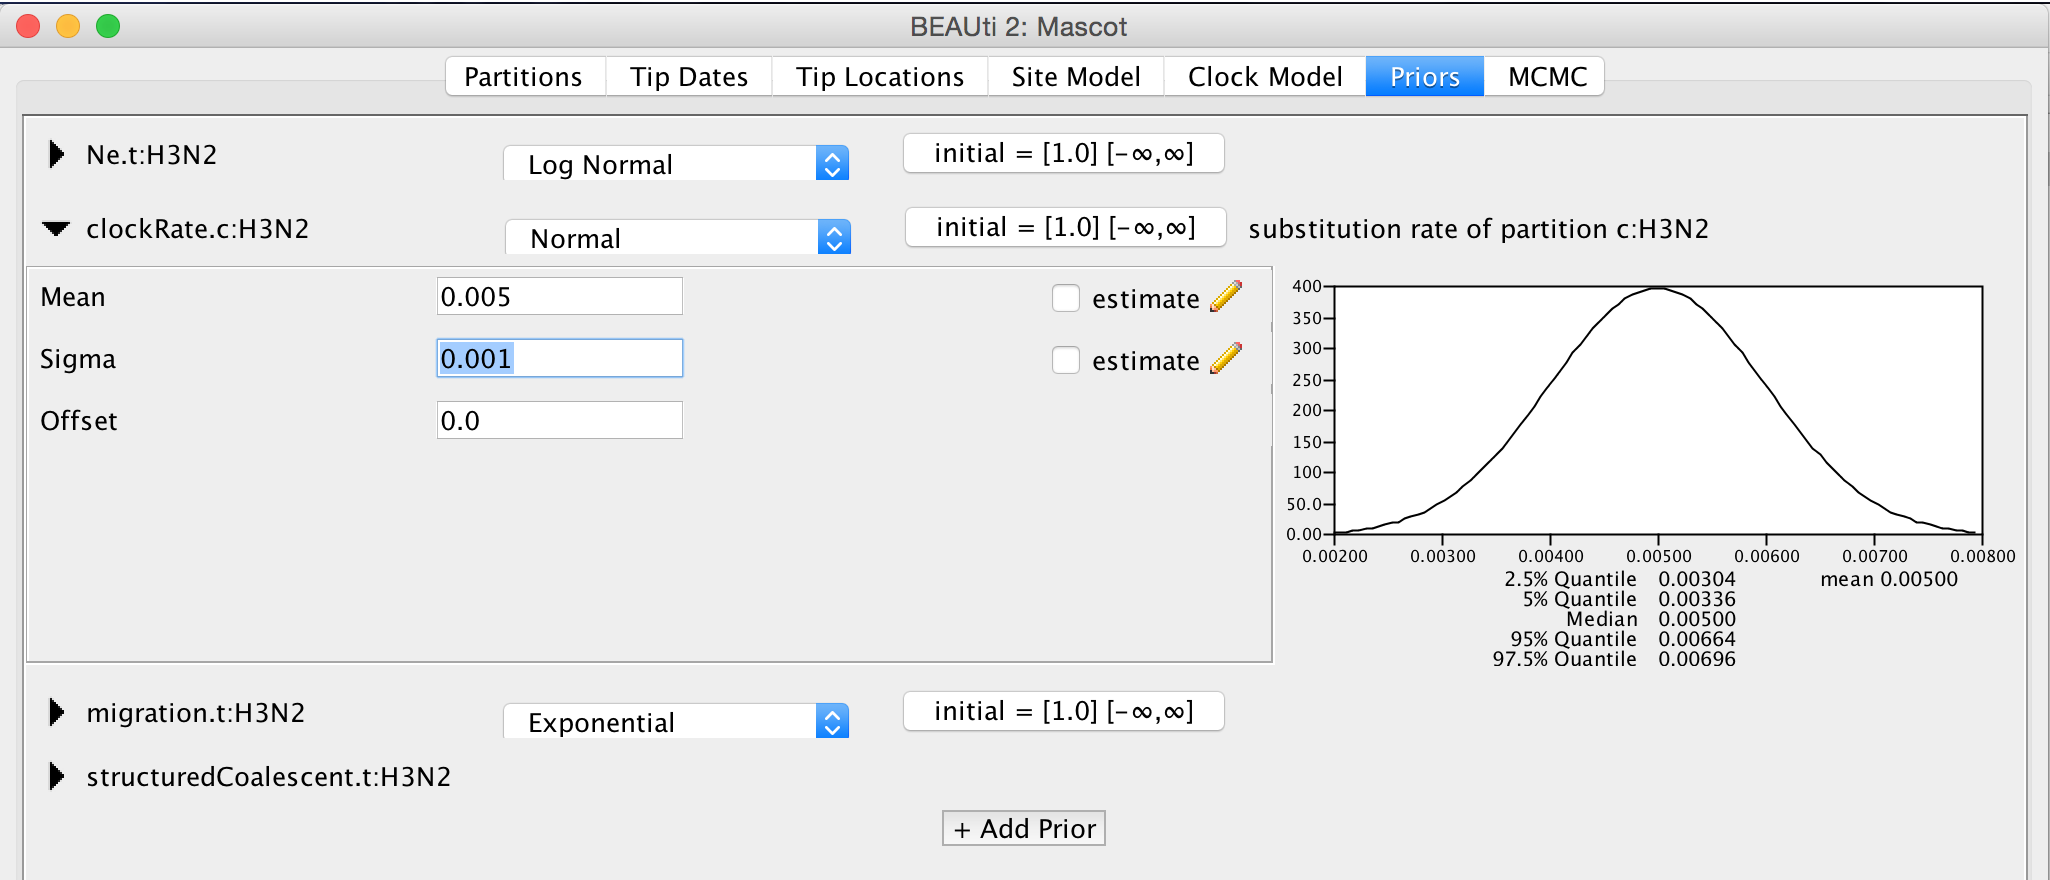
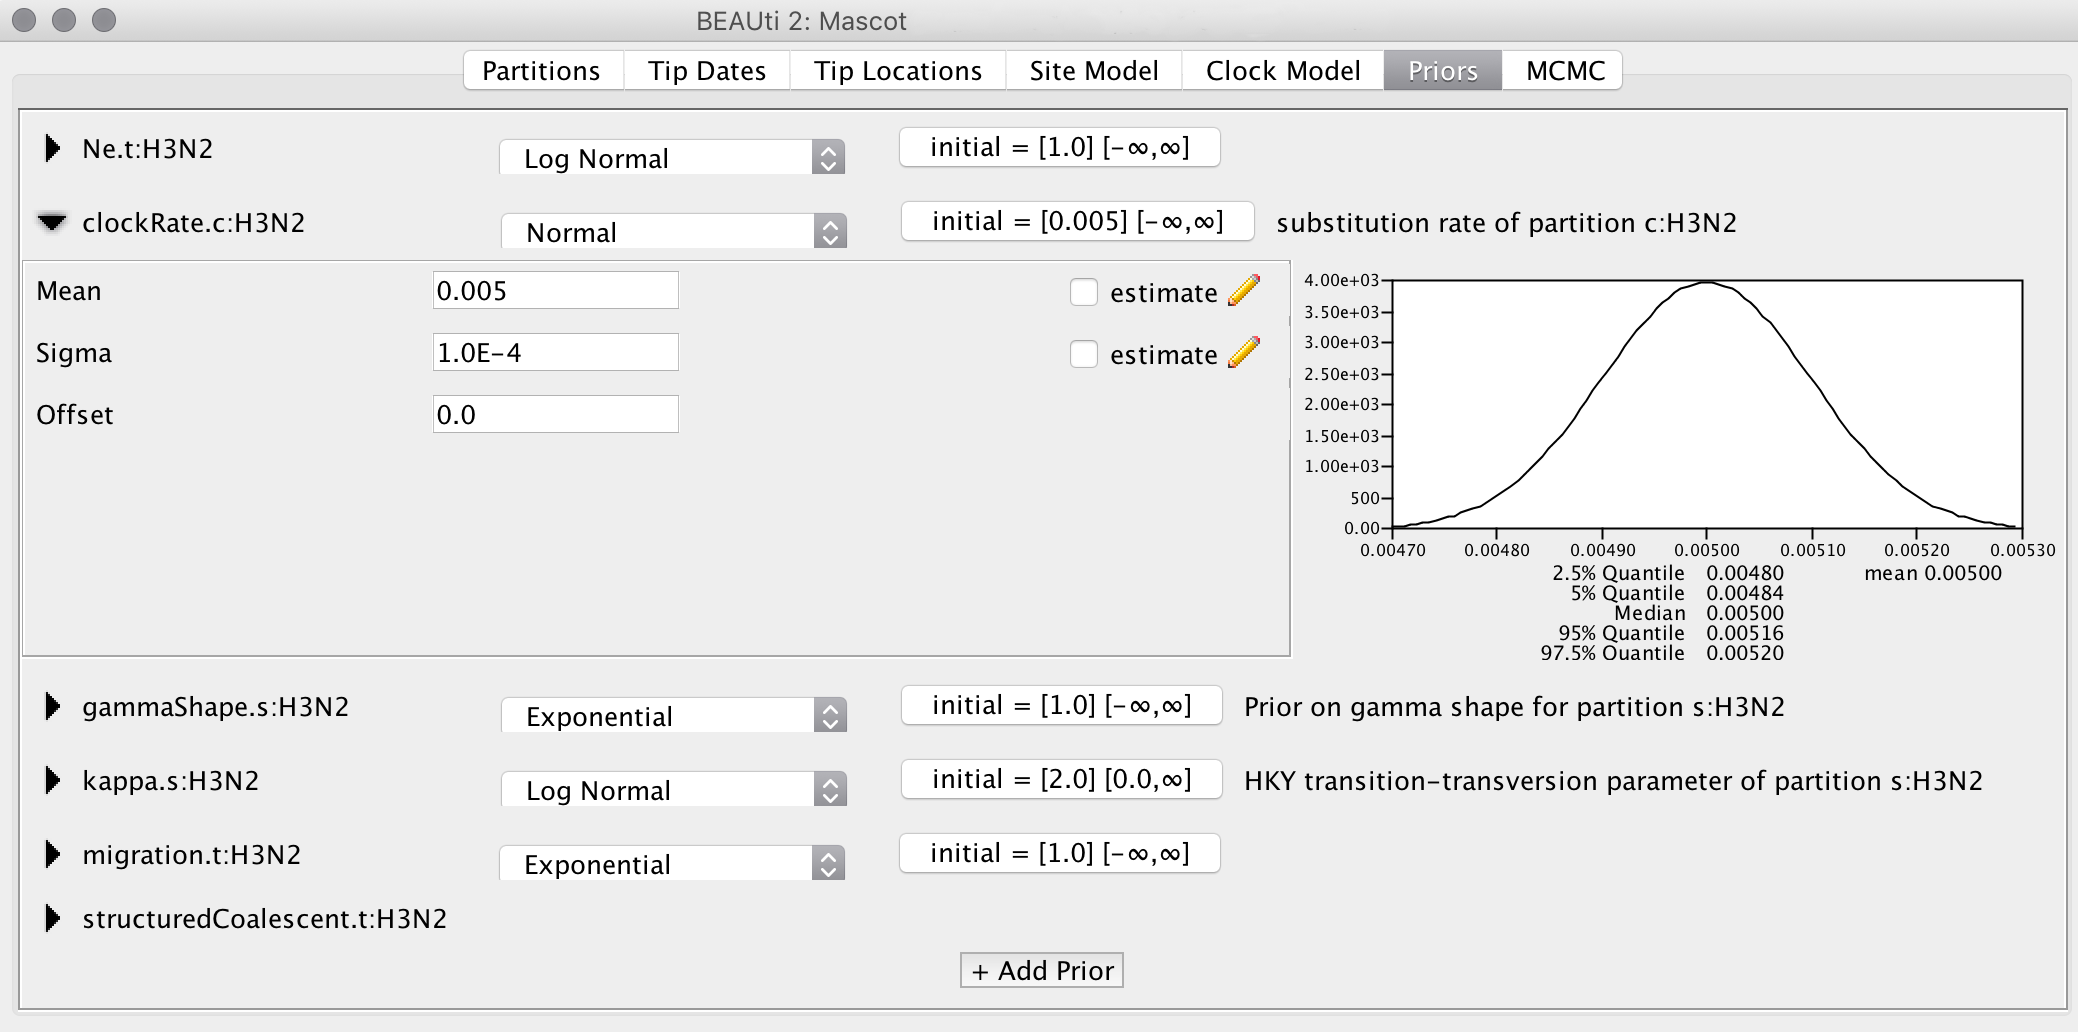
Updated priors section.

diff --git a/README.md b/README.md
@@ -107,17 +107,17 @@ clicking the _Guess_ button, you can split the sequence on the
 vertical bar "|" again by selecting "split on character" and entering
 "|" in the box. However, the locations are in the fourth group, so
 this time choose "4" from the drop-down menu. After clicking the _OK_
-button, the window should now look like in the figure below:
+button, the window should look like the one shown in the figure below:
 
 <figure>
 	<a id="fig:example1"></a>
 	<img style="width:70%;" src="figures/TipLocations.png" alt="">
-	<figcaption>Figure 3: Guess sampling locations.</figcaption>
+	<figcaption>Figure 3: Configuring sample locations.</figcaption>
 </figure>
 
 ### Specify the Site Model (Site Model)
 
-Next, we have to specify the site model. For Influenza Hemagluttanin sequences as we have here, HKY is the most commonly used model of nucleotide evolution. It allows for difference in transversion and transition rates. Meaning that changes between bases that are chemically closer related (transitions) are allowed to have a different rate than changes between bases that chemically more distinct (transversion). Additionally, we should allow for different rate categories for different sires in the alignment. This can be done by setting the _Gamma Category Count_ to 4, which is just a value that has typically been used. Make sure that estimate is checked next to the shape parameter. To reduce the number of parameters we have to estimate, we can set Frequencies to Empirical.
+Next, we have to specify the site model. To do this, choose the "Site Model" tab. For Influenza Hemagluttanin sequences as we have here, HKY is the most commonly used model of nucleotide evolution. This model allows for differences in transversion and transition rates, meaning that changes between bases that are chemically more closely related (transitions) are allowed to have a different rate to changes between bases that chemically more distinct (transversions). Additionally, we should allow for different rate categories for different sires in the alignment. This can be done by setting the _Gamma Category Count_ to 4, which is just a value that has typically been used. Make sure that estimate is checked next to the shape parameter. To reduce the number of parameters we have to estimate, we can set Frequencies to Empirical.
 
 <figure>
 	<a id="fig:example1"></a>
@@ -137,9 +137,13 @@ For rapidly evolving viruses, the assumption of a strict molecular clock is ofte
 </figure>
 
 ### Specify the priors (Priors)
-Now, we need to set the priors of the effective population sizes and the migration rates. Next, we can change the prior to a Log Normal prior with M=0 and S=1. Since we have only a few samples per location, meaning little information about the different effective population sizes, we will need an informative prior.
-Next, we have to set the dimension of the migration rate parameter. The exponential distribution as a prior on the migration rate puts much weight on lower values while not prohibiting larger ones. For migration rates, a prior that prohibits too large values while not greatly distinguishing between very small and very very small values (such as the inverse uniform) is generally a good choice.
-Next, we have to set a prior for the clock rate. Since we only have a narrow time window of less than a year and only 24 sequences, there isn't much information in the data about the clock rate. We have however a good idea about it for Influenza A/H3N2 Hemagglutinin. We can therefore set the prior to be normally distributed around 0.005 substitution per site and year with a variance of 0.0001. (At this point we could also just fix the rate)
+Now, we need to set the priors for the various parameters of the model. We do this by switching to the "Priors" tab.
+
+First, change the prior for the effective population size parameter to be a Log Normal prior with M=0 and S=1. Since we have only a few samples per location, meaning little information about the different effective population sizes, we will need an informative prior.
+
+The existing exponential distribution as a prior on the migration rate puts much weight on lower values while not prohibiting larger ones. For migration rates, a prior that prohibits too large values while not greatly distinguishing between very small and very *very* small values is generally a good choice. Be aware however that the exponential distirbution is quite an informative prior: one should be careful that to choose a mean so that feasible rates are not excluded.
+
+Finally, set the prior for the clock rate. Since we only have a narrow time window of less than a year and only 24 sequences, there isn't much information in the data about the clock rate. We have however a good idea about it for Influenza A/H3N2 Hemagglutinin. We can therefore set the prior to be normally distributed around 0.005 substitution per site per year with a variance of 0.0001. (At this point we could also just fix the rate)
 
 <figure>
 	<a id="fig:example1"></a>
